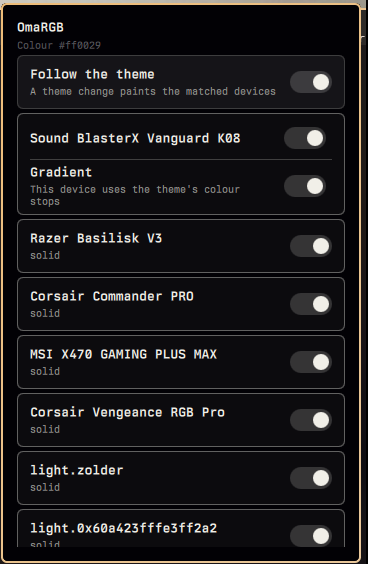
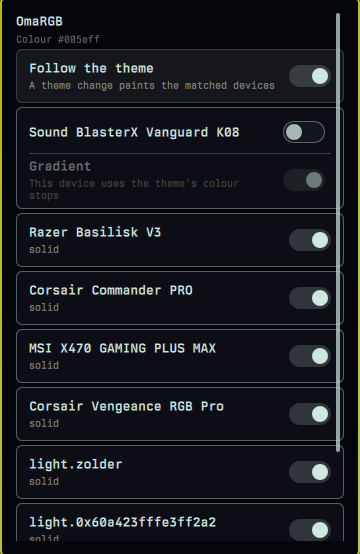
Show a scrollbar when the painting panel is taller than the card.
The host viewport scrolls the rest of the list, and a thumb stays on the card so a cut-off row is not the end. The panel screenshots include that thumb.

Changed region(s): [[0.0, 0.0, 1.0, 1.0], [0.7944, 0.5217, 0.825, 0.5523]]

diff --git a/shell/BarWidget.qml b/shell/BarWidget.qml
@@ -153,11 +153,16 @@ Panel {
     owner: root
     bar: root.bar
     open: root.opened
-    focusTarget: keys
+    focusTarget: panel.loadedContent
     contentWidth: panel.fittedContentWidth(Style.space(360))
-    contentHeight: panel.fittedContentHeight(content.implicitHeight, Style.space(560))
-    PanelKeyCatcher {
+    contentHeight: panel.fittedContentHeight(panel.loadedContentHeight, Style.space(560))
+    // The card stays at the cap and the host viewport scrolls the rest.
+    // Its own scrollbar fades out at rest, so the thumb below stays painted
+    // on the card for as long as the list overflows.
+    scrollOverflow: true
+    content: PanelKeyCatcher {
       id: keys
+      implicitHeight: form.implicitHeight
       anchors.fill: parent
       onCloseRequested: root.close()
       onMoveRequested: function(dx, dy) {
@@ -169,15 +174,56 @@ Panel {
         root.selectedControl = (root.selectedControl + direction + count) % count
       }
       onActivateRequested: root.activate()
-      Flickable {
-        anchors.fill: parent
-        contentWidth: width
-        contentHeight: content.implicitHeight
-        clip: true
-        Column {
-          id: content
-          width: parent.width
-          spacing: Style.spacing.sm
+
+      Rectangle {
+        id: thumb
+        z: 20
+        width: 4
+        radius: 2
+        color: Commons.Color.foreground
+        opacity: 0.7
+        visible: false
+      }
+
+      property bool thumbBound: false
+      function placeThumb() {
+        var item = parent
+        var flick = null
+        while (item) {
+          if (item.visibleArea !== undefined && item.contentHeight !== undefined) {
+            flick = item
+            break
+          }
+          item = item.parent
+        }
+        if (!flick || !flick.parent) {
+          thumb.visible = false
+          return
+        }
+        if (!thumbBound) {
+          thumbBound = true
+          flick.contentYChanged.connect(placeThumb)
+          flick.heightChanged.connect(placeThumb)
+          flick.contentHeightChanged.connect(placeThumb)
+        }
+        var overflowing = flick.contentHeight > flick.height + 1
+        thumb.visible = overflowing
+        if (!overflowing) return
+        if (thumb.parent !== flick.parent) thumb.parent = flick.parent
+        var span = Math.max(1, flick.contentHeight - flick.height)
+        var height = Math.max(36, flick.height * flick.height / flick.contentHeight)
+        var travel = Math.max(1, flick.height - height)
+        var origin = flick.mapToItem(flick.parent, 0, 0)
+        thumb.height = height
+        thumb.x = origin.x + flick.width - thumb.width - 4
+        thumb.y = origin.y + (flick.contentY / span) * travel
+      }
+      Component.onCompleted: Qt.callLater(placeThumb)
+      onImplicitHeightChanged: Qt.callLater(placeThumb)
+      Column {
+        id: form
+        width: parent.width
+        spacing: Style.spacing.sm
           Text {
             text: strings.t("panel.title")
             textFormat: Text.PlainText
@@ -229,7 +275,7 @@ Panel {
               id: device
               required property var modelData
               required property int index
-              width: content.width
+              width: form.width
               implicitHeight: modelData.gradient ? gradientCard.implicitHeight : plain.implicitHeight
 
               Toggle {
@@ -300,7 +346,6 @@ Panel {
             onClicked: root.startTask("apply", ["apply"], 45000)
           }
         }
-      }
     }
   }
 

diff --git a/docs/index.html b/docs/index.html
@@ -41,7 +41,7 @@
       <img class="shot" src="bar.png" width="350" height="34" alt="The OmaRGB lightbulb in the Omarchy bar" style="width: min(100%, 350px); height: auto; aspect-ratio: 350 / 34;">
     </figure>
     <figure>
-      <img class="shot" src="panel.png" width="368" height="564" alt="The OmaRGB panel: follow the theme, and a gradient row inside the Vanguard K08 card" style="width: min(100%, 368px); height: auto; aspect-ratio: 368 / 564;">
+      <img class="shot" src="panel.png" width="360" height="554" alt="The OmaRGB panel: follow the theme, a gradient row inside the Vanguard K08 card, and a scrollbar for the rest" style="width: min(100%, 360px); height: auto; aspect-ratio: 360 / 554;">
     </figure>
     <pre><code>git clone https://github.com/ekollof/OmaRGB.git
 cd OmaRGB

diff --git a/docs/site.css b/docs/site.css
@@ -45,8 +45,8 @@ img.shot[src="bar.png"] {
 }
 
 img.shot[src="panel.png"] {
-  width: min(100%, 368px);
-  aspect-ratio: 368 / 564;
+  width: min(100%, 360px);
+  aspect-ratio: 360 / 554;
 }
 
 h1 {

diff --git a/README.md b/README.md
@@ -37,7 +37,7 @@ The bar icon opens the same controls: follow the theme or leave the lights as th
   <img src="assets/bar.png" alt="The OmaRGB lightbulb in the Omarchy bar" width="350">
 </p>
 <p>
-  <img src="assets/panel.png" alt="The OmaRGB panel: follow the theme, and a gradient row inside the Vanguard K08 card" width="368">
+  <img src="assets/panel.png" alt="The OmaRGB panel: follow the theme, a gradient row inside the Vanguard K08 card, and a scrollbar for the rest" width="360">
 </p>
 
 In a terminal the report uses Omarchy's gum theme: an accent border and the green or red status mark. The theme hook and the palette watcher are not a terminal, so they log the plain lines.
